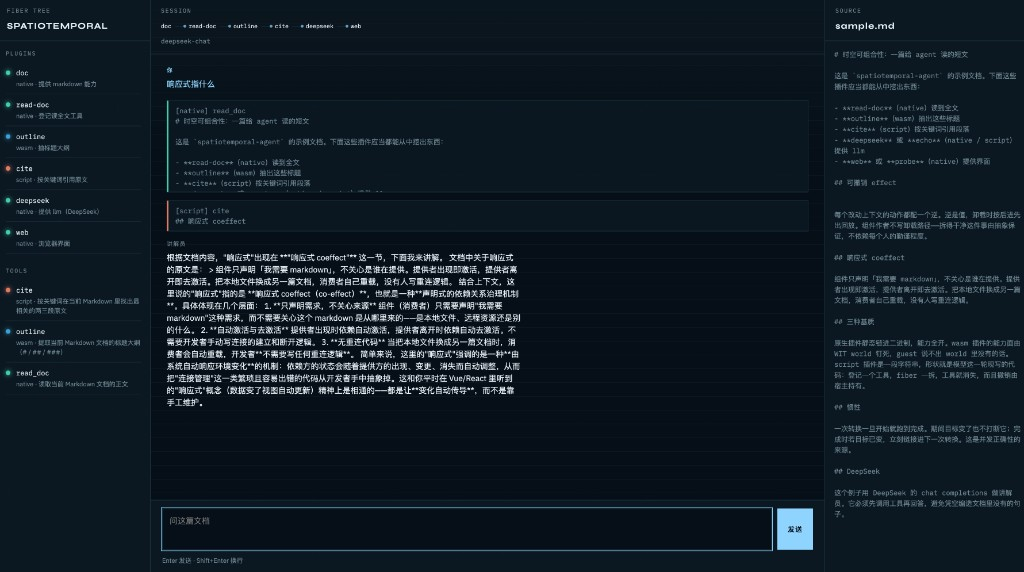
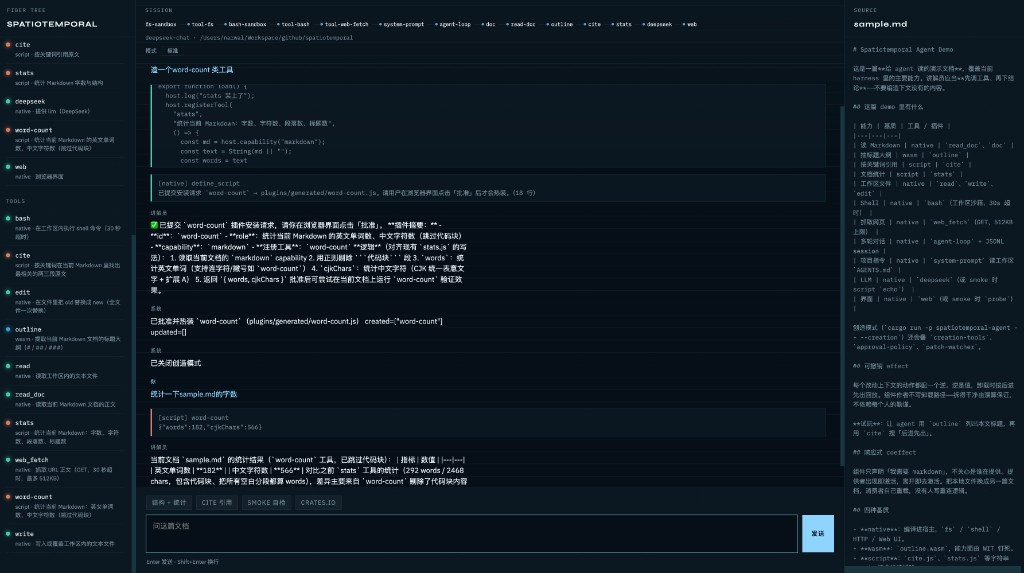
更新 agent README 截图，展示创造模式热装 word-count 试玩。
替换 ui.jpg 并调整说明文字，反映当前浏览器 UI 与工具调用流程。

diff --git a/spatiotemporal-agent/README.md b/spatiotemporal-agent/README.md
@@ -2,7 +2,7 @@
 
 读一篇 Markdown，用 DeepSeek 当讲解员，在浏览器里对话。宿主几乎只做两件事：建一张插件注册表，再用 `Loader` 把 `cordis.yml` 对账成一棵 fiber 树。文档、工具、LLM、界面都是插件。
 
-![在浏览器里问 sample.md：左侧是插件树，中间是会话，右侧是原文](assets/ui.jpg)
+![创造模式：左侧插件树含热装的 word-count，中间会话调工具统计 sample.md，右侧原文](assets/ui.jpg)
 
 ## 启动
 
